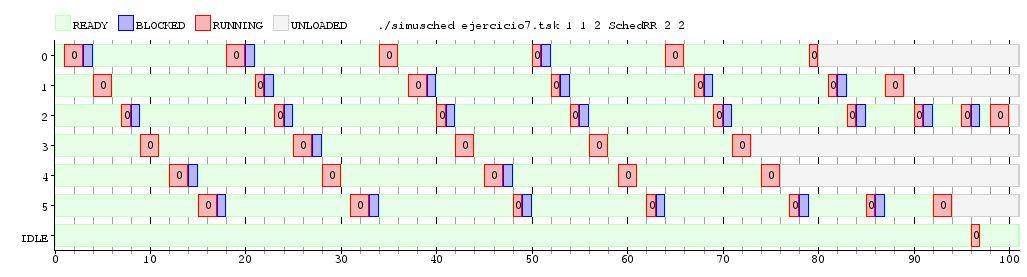
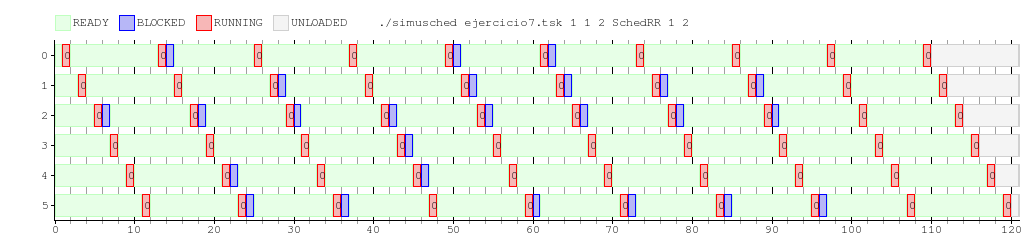
Gráficos ej 7 y borro comentarios de schedRR

Changed region(s): [[0.0, 0.0567, 0.9971, 0.9636], [0.3739, 0.0567, 0.6855, 0.1134]]

diff --git a/tp1/informe/informe.tex b/tp1/informe/informe.tex
@@ -282,7 +282,7 @@ Para este punto, vamos a tomar las métricas turnaround y eficiencia para tratar
 El turnaround time se define como el intervalo que va desde el tiempo en que se carga la tarea, hasta que termina de ejecutarse. Lo que significa que para obtener este valor hay que sumar el tiempo de espera para cargarse en memoria, el tiempo de espera en la cola de ready, el tiempo de ejecución de CPU y el tiempo en estado bloqueado.
 
 Para analizar esta métrica, armamos un lote de tareas TaskBatch con 10 ciclos de ejecución de CPU y un valor entre 1 y 8 de cantidad de bloqueos. Este lote lo corrimos con el scheduller round robin para 1, 2 y 3 cores con quantums fijos para todos los cores de 2, 5, 8 y 15.
-
+% 1 CORE
 \begin{figure}[H]
 \centering
 \includegraphics[scale=.6, width=1\textwidth]{graficos/ej7-1core-q1}
@@ -305,6 +305,56 @@ Para analizar esta métrica, armamos un lote de tareas TaskBatch con 10 ciclos d
 \centering
 \includegraphics[scale=.6, width=1\textwidth]{graficos/ej7-1core-q4}
 \caption{Gráfico con quantum 15 en un solo core}
+\end{figure}
+
+% 2 CORES
+\begin{figure}[H]
+\centering
+\includegraphics[scale=.6, width=1\textwidth]{graficos/ej7-2core-q1}
+\caption{Gráfico con quantum 2 para 2 cores}
+\end{figure}
+
+\begin{figure}[H]
+\centering
+\includegraphics[scale=.6, width=1\textwidth]{graficos/ej7-2core-q2}
+\caption{Gráfico con quantum 5 para 2 cores}
+\end{figure}
+
+\begin{figure}[H]
+\centering
+\includegraphics[scale=.6, width=1\textwidth]{graficos/ej7-2core-q3}
+\caption{Gráfico con quantum 8 para 2 cores}
+\end{figure}
+
+\begin{figure}[H]
+\centering
+\includegraphics[scale=.6, width=1\textwidth]{graficos/ej7-2core-q4}
+\caption{Gráfico con quantum 15 para 2 cores}
+\end{figure}
+
+% 3 CORES
+\begin{figure}[H]
+\centering
+\includegraphics[scale=.6, width=1\textwidth]{graficos/ej7-3core-q1}
+\caption{Gráfico con quantum 2 para 3 cores}
+\end{figure}
+
+\begin{figure}[H]
+\centering
+\includegraphics[scale=.6, width=1\textwidth]{graficos/ej7-3core-q2}
+\caption{Gráfico con quantum 5 para 3 cores}
+\end{figure}
+
+\begin{figure}[H]
+\centering
+\includegraphics[scale=.6, width=1\textwidth]{graficos/ej7-3core-q3}
+\caption{Gráfico con quantum 8 para 3 cores}
+\end{figure}
+
+\begin{figure}[H]
+\centering
+\includegraphics[scale=.6, width=1\textwidth]{graficos/ej7-3core-q4}
+\caption{Gráfico con quantum 15 para 3 cores}
 \end{figure}
 
 Si se analisan los gráficos se puede ver que a partir de quantum 8 no cambia el turnaround.

diff --git a/tp1/src/sched_rr.cpp b/tp1/src/sched_rr.cpp
@@ -19,27 +19,11 @@ SchedRR::SchedRR(vector<int> argn) {
 }
 
 SchedRR::~SchedRR() {
-	// //Codigo para calcular turnaround.
-	// FILE * file;
-	// file = fopen ("result_rr.txt","a");
-	// fputs("pid turnaround\n", file);
-	// for (unsigned int i = 0; i < t_time.size(); ++i)
-	// {
-	// 	fprintf(file, "%d %d\n", t_time[i].pid, t_time[i].time );
-	// }
-	// fclose(file);
 }
 
 
 void SchedRR::load(int pid) {
 	this->cola_procesos.push(pid); // El llegar un nuevo proceso lo agregamos a la cola.
-	//Codigo para calcular turnaround.
-	// turnaround t_pid;
-	// t_pid.pid = pid;
-	// t_pid.time = 0;
-	// t_pid.exit = false;
-	// this->t_time.push_back(t_pid);
-
 }
 
 void SchedRR::unblock(int pid) {
@@ -48,18 +32,6 @@ void SchedRR::unblock(int pid) {
 }
 
 int SchedRR::tick(int cpu, const enum Motivo m) {
-	//Codigo para calcular turnaround.
-	// if (cpu == 0)
-	// {
-	// 	for (unsigned int i = 0; i < t_time.size(); ++i)
-	// 	{
-	// 		if (!t_time[i].exit)
-	// 		{
-	// 			t_time[i].time++;				
-	// 		}
-	// 	}		
-	// }
-
 	int next_pid = IDLE_TASK;
 	switch(m)
 	{
@@ -87,8 +59,6 @@ int SchedRR::tick(int cpu, const enum Motivo m) {
 			next_pid = next(cpu);
 			break;
 		case EXIT:
-			//Codigo para calcular turnaround.
-			// t_time[current_pid(cpu)].exit = true; // marcamos que termino la tarea para no seguir contando.
 			cuota_actual[cpu] = quantums[cpu];	// Reseteamos el quantum.
 			next_pid = next(cpu);				// Elegimos el próximo proceso a ejecutar.
 			break;
@@ -101,19 +71,6 @@ int SchedRR::next(int cpu) {
 	if( !this->cola_procesos.empty() ) {//...si hay procesos en espera,
 		next_pid = this->cola_procesos.front(); // Devolvemos el siguiente de la cola.
 		this->cola_procesos.pop();
-		//Codigo para calcular turnaround.
-		// if (current_pid(cpu)  != -1 && !t_time[current_pid(cpu)].exit)
-		// {
-		// 	t_time[current_pid(cpu)].time++;
-		// }
-		// if (next_pid != -1)
-		// {
-		// 	t_time[next_pid].time++;
-		// }
-		// if (current_pid(cpu)  != -1 && t_time[current_pid(cpu)].exit && next_pid != -1)
-		// {
-		// 	t_time[current_pid(cpu)].time--;
-		// }
 	}
 	return next_pid;
 }

diff --git a/tp1/src/sched_rr.h b/tp1/src/sched_rr.h
@@ -18,14 +18,6 @@ class SchedRR : public SchedBase {
 		virtual int tick(int cpu, const enum Motivo m);
 
 	private:
-		//Codigo para calcular turnaround.
-		// struct turnaround{
-		// 	int pid;
-		// 	int time;
-		// 	bool exit;
-		// };
-		// vector<turnaround> t_time;
-
 		int next(int cpu);
 		vector<int> quantums;
 		vector<int> cuota_actual;
